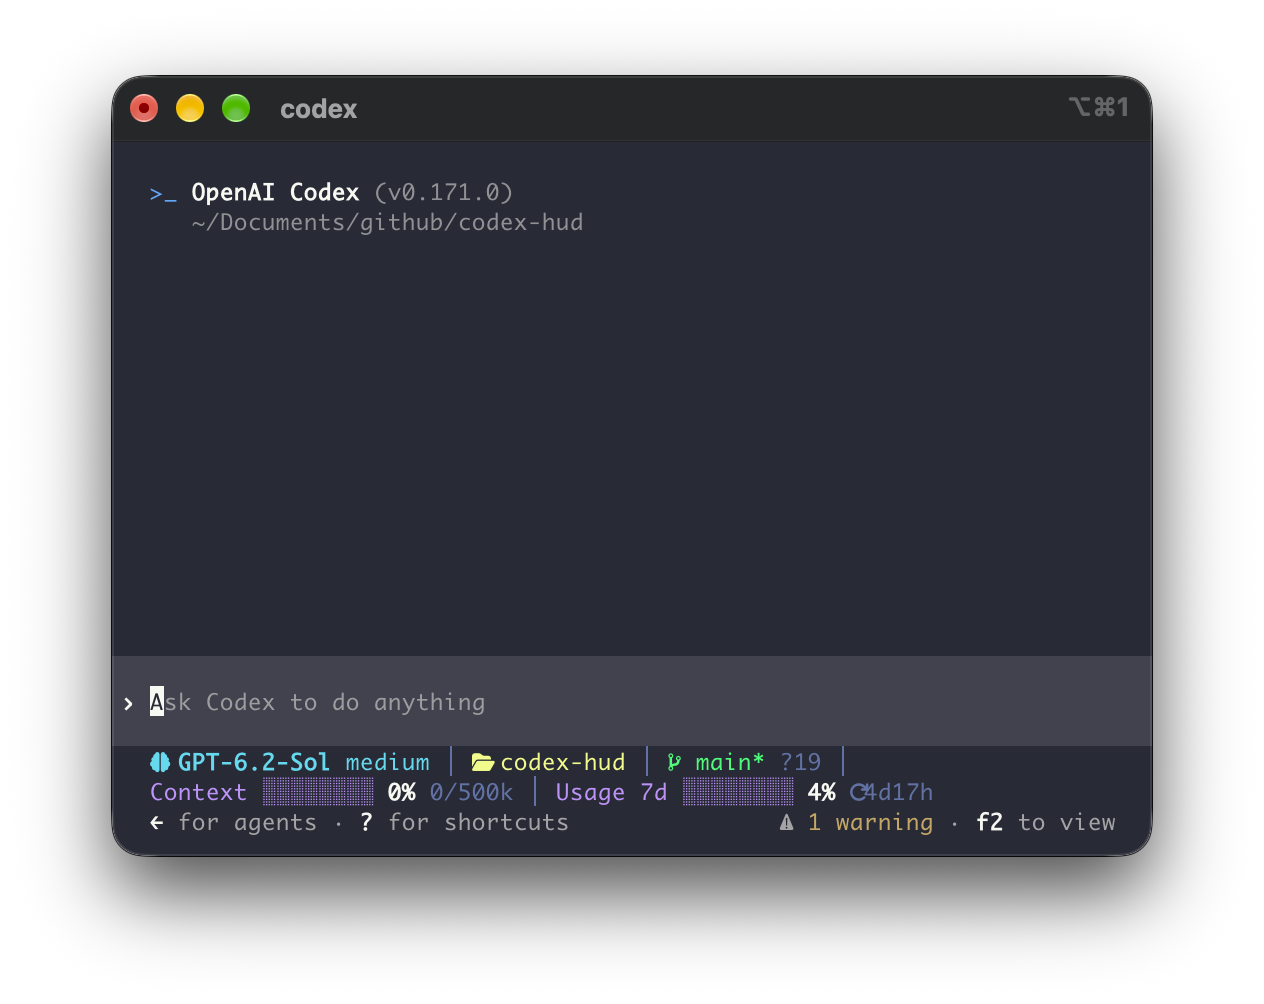
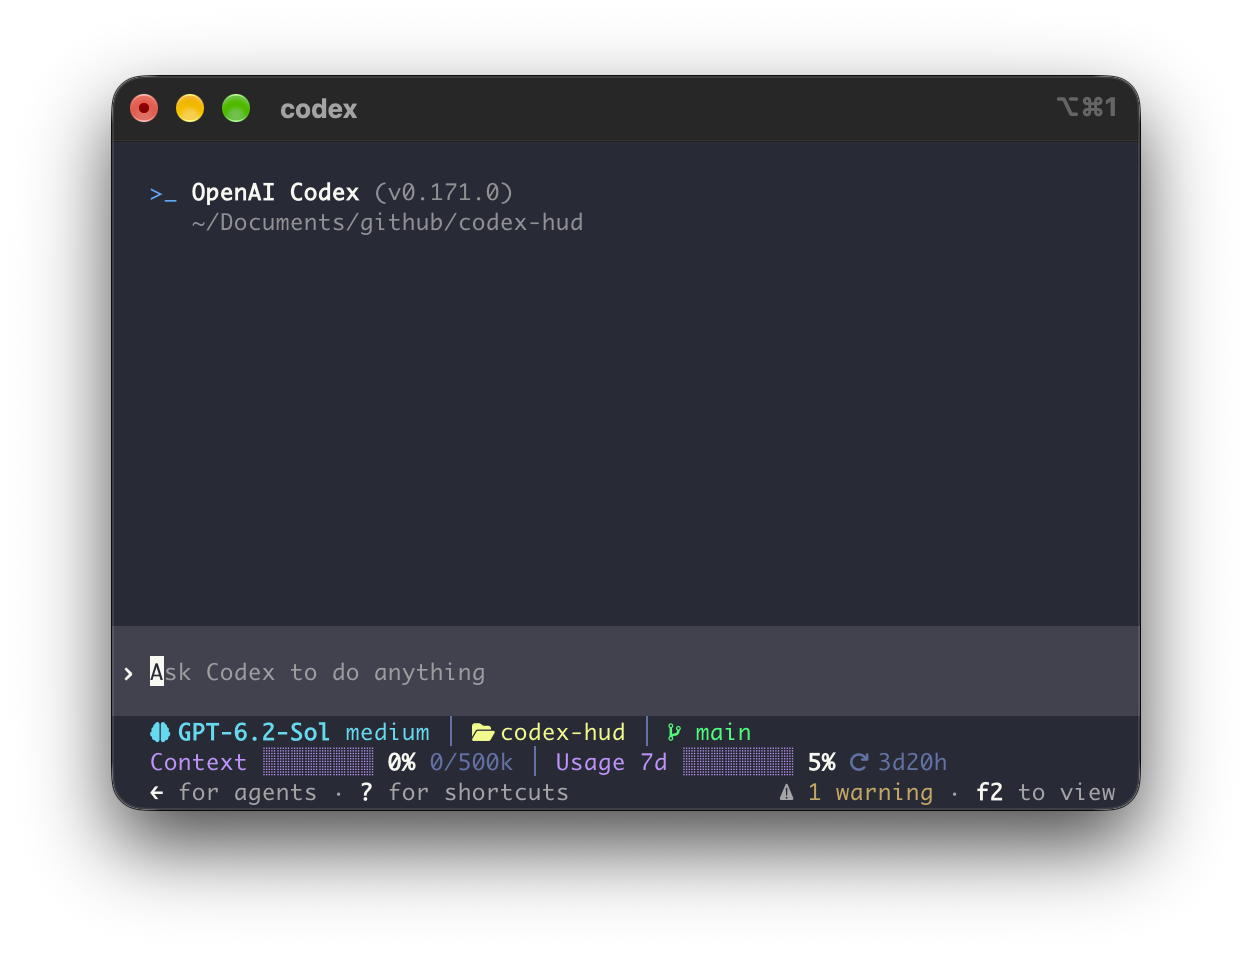
Refresh screenshot and move CI actions to v7
The screenshot now shows the grouped footer wrapping between its two
groups, without a trailing separator, and the spaced reset glyph.

actions/checkout and actions/setup-node v7 run on Node 24, which
removes the Node 20 deprecation warning. None of the breaking changes
since v4 apply: there is no packageManager field and no
pull_request_target trigger.

Changed region(s): [[0.0935, 0.6962, 0.9345, 0.8779], [0.0935, 0.0605, 0.9034, 0.1211], [0.1246, 0.1816, 0.4673, 0.2422]]

diff --git a/README.md b/README.md
@@ -10,7 +10,7 @@
 gpt-5.5 high │ codex-hud │ ⎇ main* +1~2?1 ↑1   Context ███░░░░░ 43% 172k/400k │ Usage 5h ██░░░░░░ 23% ↻1h51m  7d ██████░░ ! 74% ↻3d5h
 ```
 
-When the terminal is too narrow for one line, the footer wraps between the two groups, so `Context` and `Usage` start the second line.
+When the terminal is too narrow for one line, the footer wraps between the two groups, so `Context` and `Usage` start the second line, as in the [screenshot](#icons-render-as-boxes).
 
 The default shows the model and project names as text and uses Unicode symbols such as `⎇` and `↻`. For model and folder icons, see [Icons Render As Boxes](#icons-render-as-boxes).
 
@@ -144,7 +144,7 @@ Set-Content -Encoding ascii -Path "~\.config\codex-hud\config.json" -Value '{"ic
 2. Point your terminal profile at that font family (e.g., iTerm2 → Settings → Profiles → Text → Font, VS Code `terminal.integrated.fontFamily`, `font-family` in `~/.config/ghostty/config`, or Windows Terminal → Settings → Profiles → Defaults → Appearance → Font face). Ghostty, WezTerm, and kitty include Nerd Font symbol fallbacks.
 3. Set `"icons": true` in your [config file](#config).
 
-<img src="assets/preview.png" alt="Codex status line with Nerd Font icons enabled" width="700">
+<img src="assets/preview.png" alt="Codex status line with Nerd Font icons in iTerm2, wrapped between its two groups" width="700">
 
 Over SSH, your local terminal draws the glyphs, so a font installed on the remote host has no effect.
 

diff --git a/README_CN.md b/README_CN.md
@@ -10,7 +10,7 @@
 gpt-5.5 high │ codex-hud │ ⎇ main* +1~2?1 ↑1   Context ███░░░░░ 43% 172k/400k │ Usage 5h ██░░░░░░ 23% ↻1h51m  7d ██████░░ ! 74% ↻3d5h
 ```
 
-终端宽度不够一行时，footer 会在两组之间折行，`Context` 和 `Usage` 从第二行开始。
+终端宽度不够一行时，footer 会在两组之间折行，`Context` 和 `Usage` 从第二行开始，效果见[截图](#图标显示成方块)。
 
 默认以纯文字显示模型和项目名，并使用 `⎇`、`↻` 等 Unicode 符号。模型和文件夹图标见[图标显示成方块](#图标显示成方块)。
 
@@ -144,7 +144,7 @@ Set-Content -Encoding ascii -Path "~\.config\codex-hud\config.json" -Value '{"ic
 2. 把终端 profile 的字体指向该字族（如 iTerm2 → Settings → Profiles → Text → Font、VS Code 的 `terminal.integrated.fontFamily`、`~/.config/ghostty/config` 中的 `font-family`、Windows Terminal → Settings → Profiles → Defaults → Appearance → Font face）。Ghostty、WezTerm、kitty 自带 Nerd Font 符号回退。
 3. 在[配置文件](#配置)中设置 `"icons": true`。
 
-<img src="assets/preview.png" alt="开启 Nerd Font 图标后的 Codex 状态栏" width="700">
+<img src="assets/preview.png" alt="iTerm2 中开启 Nerd Font 图标的 Codex 状态栏，在两组之间折行" width="700">
 
 SSH 下字形由本地终端绘制，在远端主机装字体没有用。
 
